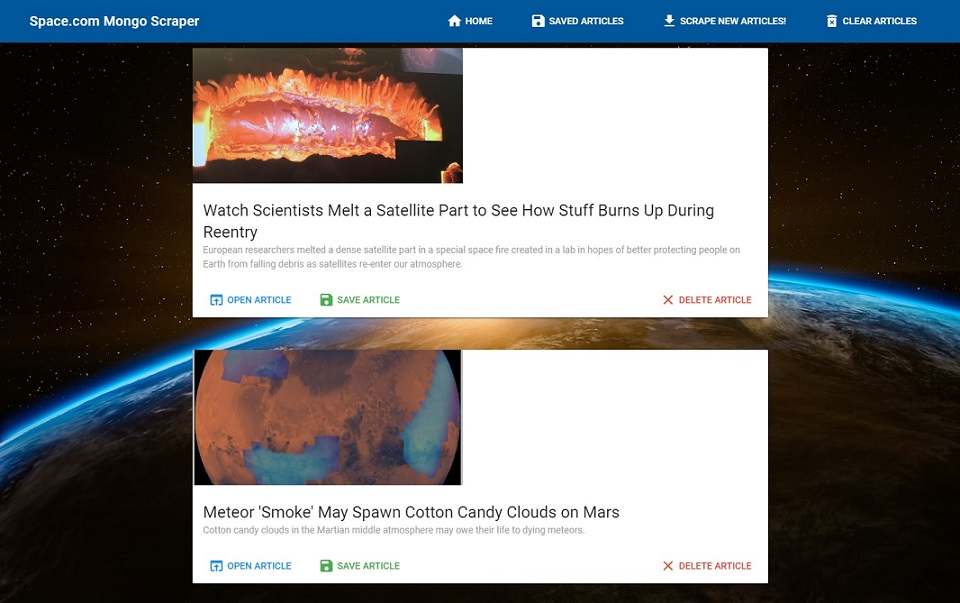
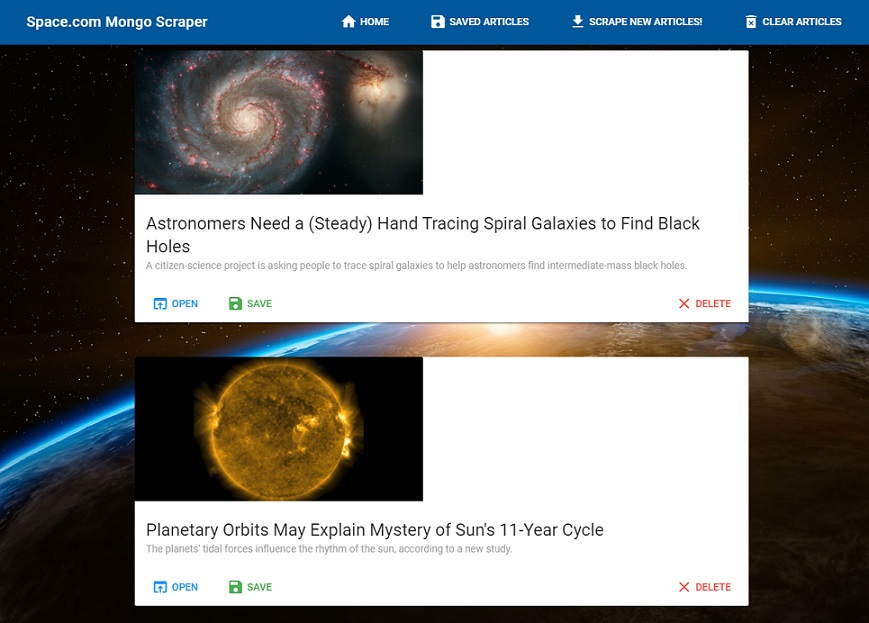
Updated screenshot, updated buttons on article cards, added link to deployed site in readme

diff --git a/client/src/views/Saved.vue b/client/src/views/Saved.vue
@@ -18,17 +18,18 @@
 
             <v-card-actions>
               <v-btn flat :href="article.url" color="blue" target="_blank">
-                <v-icon class="mr-1">open_in_browser</v-icon>Open Article
+                <v-icon class="mr-1">open_in_browser</v-icon>Open
               </v-btn>
               <v-btn flat color="purple">
                 <v-icon class="mr-1">assignment</v-icon>Add Comment
               </v-btn>
               <v-spacer></v-spacer>
               <v-btn @click="deleteArticle(article._id)" flat color="red">
-                <v-icon class="mr-1">clear</v-icon>Delete Article
+                <v-icon class="mr-1">clear</v-icon>Delete
               </v-btn>
             </v-card-actions>
-            <!-- This is a placeholder for the comments section, currently not emplemented -->
+            <!-- This is a placeholder for the comments section, currently not emplemented.  Data from the comment would be included
+            in the loop so any comments would appear on each article -->
             <v-card-title>
               <div>
                 <form>
@@ -100,6 +101,9 @@ export default {
       // When deleting an article, it would still be visible if the page was re-rendered
       // too quickly.  Added a timeout of 1 second to give DB time to remove
       setTimeout(() => this.renderArticles(), 1000);
+    },
+    addComment: function() {
+      // Placeholder method that would add the comment to each associated article
     }
   }
 };

diff --git a/client/src/views/Home.vue b/client/src/views/Home.vue
@@ -17,10 +17,10 @@
             </v-card-title>
 
             <v-card-actions>
-              <v-btn flat :href="article.url" color="blue" target="_blank"><v-icon class="mr-1">open_in_browser</v-icon>Open Article</v-btn>
-              <v-btn @click="saveArticle(article._id)" flat color="green"><v-icon class="mr-1">save</v-icon>  Save Article</v-btn>
+              <v-btn flat :href="article.url" color="blue" target="_blank"><v-icon class="mr-1">open_in_browser</v-icon>Open</v-btn>
+              <v-btn @click="saveArticle(article._id)" flat color="green"><v-icon class="mr-1">save</v-icon>Save</v-btn>
               <v-spacer></v-spacer>
-              <v-btn @click="deleteArticle(article._id)" flat color="red"><v-icon class="mr-1">clear</v-icon>Delete Article</v-btn>
+              <v-btn @click="deleteArticle(article._id)" flat color="red"><v-icon class="mr-1">clear</v-icon>Delete</v-btn>
             </v-card-actions>
                
           </v-card>

diff --git a/README.md b/README.md
@@ -2,6 +2,8 @@
 
 ### UNC Coding Bootcamp Week 18 Homework Project
 
+[Link to Deployed App](https://arcane-garden-12409.herokuapp.com)
+
 The Space.com Mongo Scraper is a full-stack app that scrapes the Space.com news website, grabs specific elements from each article and then stores them in a MongoDB database.  Once the data has been collected, the articles can displayed in the app.
 
 #### Instructions
@@ -15,9 +17,9 @@ There are four buttons on the navigation bar.
 
 Once scraped, each article has three buttons available.
 
-* "Open Article" - Opens the site article in a new tab.
-* "Save Article" - Saves the article and prevents it from being deleted when the "Clear Articles" button is used.
-* "Delete Article" - Deletes the article from the database and removes it from the page.
+* "Open" - Opens the site article in a new tab.
+* "Save" - Saves the article and prevents it from being deleted when the "Clear Articles" button is used.
+* "Delete" - Deletes the article from the database and removes it from the page.
 
 When viewing the saved articles, there are different options available.  In the place of the "Save Article" button, there is an "Add Comment" button.  Currently the comments have not been emplemented so this is just a placeholder. This functionality will be added at a later time.  Once a comment has been entered into the text field, the comment will appear at the bottom of the card.  
 
